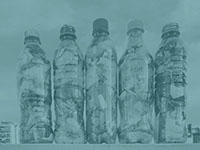
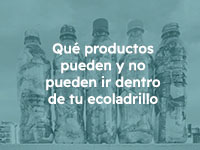
Imagenes para tips central

Changed region(s): [[0.21, 0.4, 0.81, 0.6133], [0.24, 0.2667, 0.78, 0.3733], [0.24, 0.6133, 0.81, 0.6933]]

diff --git a/tipscentral.html b/tipscentral.html
@@ -32,7 +32,7 @@
 				<h3> Tu higiene sustentable</h3>
 			</div>
 			<div>
-				<p>Qué productos pueden y no pueden ir dentro de tu ecoladrillo</p>
+				
 				<a id="ecoladrillo"><img src="Imagenes/IconoEcoladrillo.jpg"  alt="ecoladrillo"/></a>
 				
 				<h3> Tu ecoladrillo</h3>
